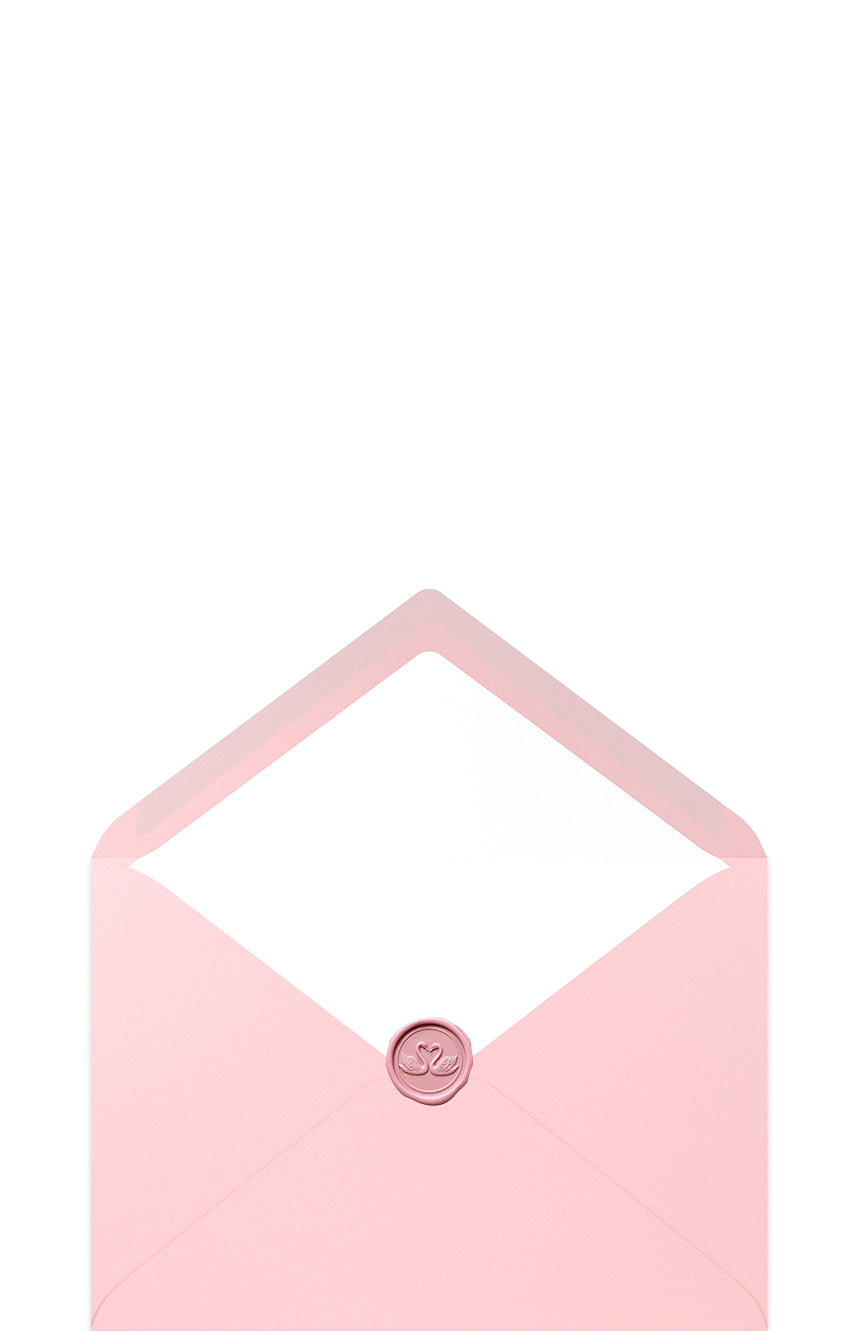
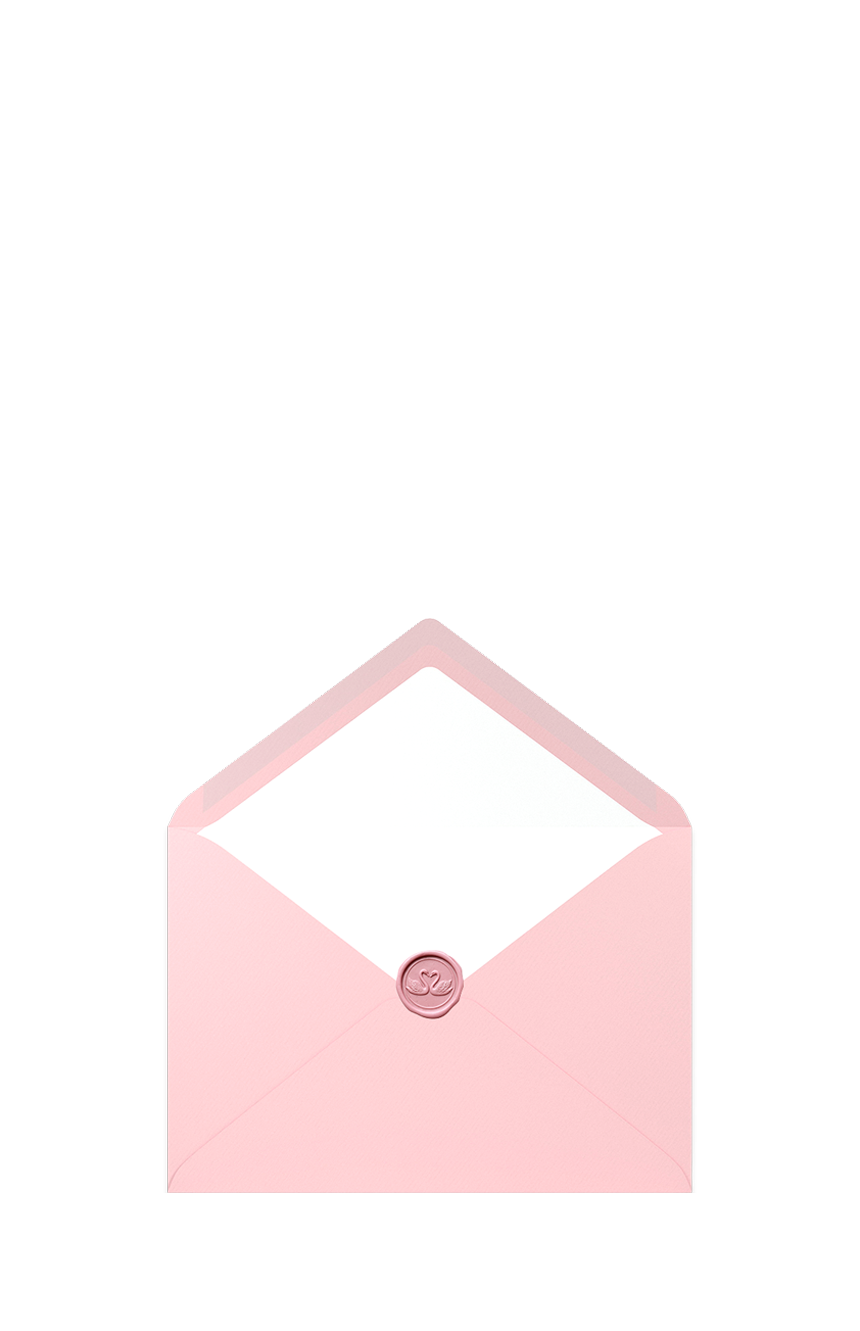
청첩장 수정

Changed region(s): [[0.0907, 0.4313, 0.907, 1.0]]

diff --git a/index.html b/index.html
@@ -223,7 +223,26 @@ button,input,textarea,a,
 
     pointer-events:none;
 }
+/* =====================================
+   사진 위 장식
+   → 사진보다 위에 표시
+===================================== */
 
+.hero-envelope-top{
+    position:absolute;
+    left:0;
+    top:0;
+
+    display:block;
+    width:100%;
+    height:auto;
+    margin:0;
+    padding:0;
+
+    z-index:5;
+
+    pointer-events:none;
+}
 
 /* =====================================
    인트로 종료 후
@@ -231,11 +250,11 @@ button,input,textarea,a,
 ===================================== */
 
 .hero-start .hero-envelope-photo{
-    animation:heroPhotoReveal 4s cubic-bezier(.22,.61,.36,1) forwards;
+    animation:heroPhotoReveal 3s cubic-bezier(.22,.61,.36,1) forwards;
 }
 
 .hero-start .hero-photo-frame::before{
-    animation:photoFrameFade .45s ease 0.9s forwards;
+    animation:photoFrameFade .3s ease 0.9s forwards;
 }
 
 @keyframes photoFrameFade{
@@ -255,12 +274,12 @@ button,input,textarea,a,
 
     /* 처음 */
     0%{
-        transform:translateX(-50%) translateY(600px) scale(0.68);
+        transform:translateX(-50%) translateY(600px) scale(0.48);
     }
 
     /* 사진이 먼저 위로 올라감 */
     45%{
-        transform:translateX(-50%) translateY(50px) scale(0.68);
+        transform:translateX(-50%) translateY(200px) scale(0.48);
     }
 
     /* 이후 화면을 채우도록 확대 */
@@ -274,10 +293,21 @@ button,input,textarea,a,
 ===================================== */
 
 .hero-start .hero-envelope-front{
-    animation:envelopeFrontFade 0.45s ease 1.5s forwards;
+    animation:envelopeFrontFade 0.35s ease 1.5s forwards;
 }
-
+.hero-start .hero-envelope-top{
+    animation:envelopeTopFade 0.35s ease 1.5s forwards;
+}
 @keyframes envelopeFrontFade{
+    from{
+        opacity:1;
+    }
+
+    to{
+        opacity:0;
+    }
+}
+@keyframes envelopeTopFade{
     from{
         opacity:1;
     }
@@ -1395,7 +1425,12 @@ body.hero-lock{
             src="images/main/main-03.png"
             alt=""
         >
-
+<!-- 사진 위 장식 -->
+<img
+    class="hero-envelope-top"
+    src="images/main/main-04.png"
+    alt=""
+>
     </div>
 </section>
 
